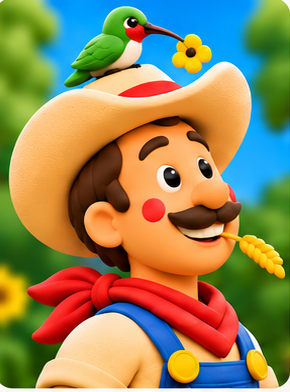
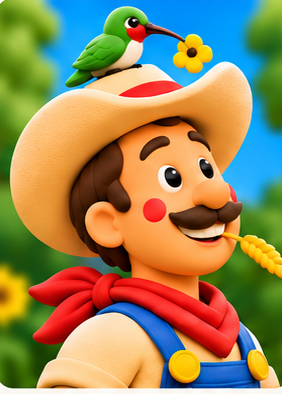
Brand: new master Happy Farmer sheet (adult jawline), lean build + cowboy boots rules
Claude-Session: https://claude.ai/code/session_01J2R4BD6HLiQv8B6i7zkBfA

diff --git a/media/brand/clay/README.md b/media/brand/clay/README.md
@@ -25,4 +25,4 @@ The real Herb Garden Kit design is media/brand/herb-kit-packaging.png and herb-k
 Jared supplied finished claymation renders of the real packaging: media/brand/clay/herb-kit/box-front.png, packets.png (all ten, real text), grow-guide.png. These are THE herb kit product images; use them (not generated ones) for the site, social product scenes and emails.
 
 ## Happy Farmer MASTER character sheet (Jared, Nov 2 2026, 23:47) — supersedes every earlier farmer description
-media/brand/clay/happy-farmer-character-sheet.png, ten views. Canonical features: cream cowboy hat with a red band; a small green red-throated hummingbird perched on the crown of the hat holding a yellow flower; a wheat sprig in the corner of his mouth; dark brown hair and thick mustache; rosy cheeks; red bandana; cream shirt; blue overalls with yellow buttons. Alt expressions: wink, laughing. Crops: happy-farmer-front.png, happy-farmer-hero-3q-right.png, happy-farmer-profile-left.png. Every generated scene must match this sheet (hummingbird AND wheat sprig); an earlier draft sheet without the bird was rejected.
+media/brand/clay/happy-farmer-character-sheet.png, ten views. Canonical features: cream cowboy hat with a red band; a small green red-throated hummingbird perched on the crown of the hat holding a yellow flower; a wheat sprig in the corner of his mouth; dark brown hair and thick mustache; rosy cheeks; red bandana; cream shirt; blue overalls with yellow buttons. Alt expressions: wink, laughing. Crops: happy-farmer-front.png, happy-farmer-hero-3q-right.png, happy-farmer-profile-left.png. Every generated scene must match this sheet (hummingbird AND wheat sprig); an earlier draft sheet without the bird was rejected. Nov 3 2026 (Jared): the sheet was replaced with the EXACT reference that gives him an adult face with a defined jawline (not a round kid's face, not a big chin). Body rules: FIT AND LEAN build (slim, trim waist, flat stomach; not chubby, not muscular), and he ALWAYS wears brown cowboy boots. Canva reference media id for generation: MAHZ1bgIX2Q (old sheets MAHZ1JczRVY and earlier are retired).
